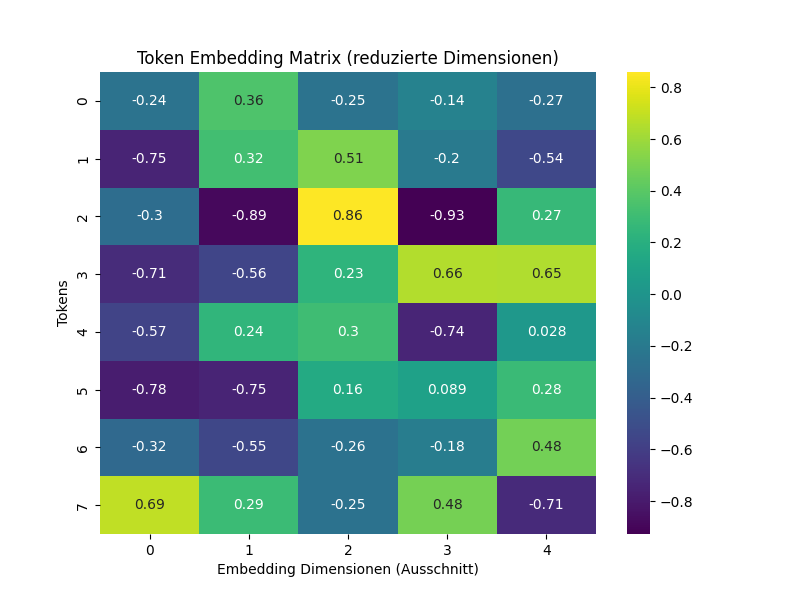
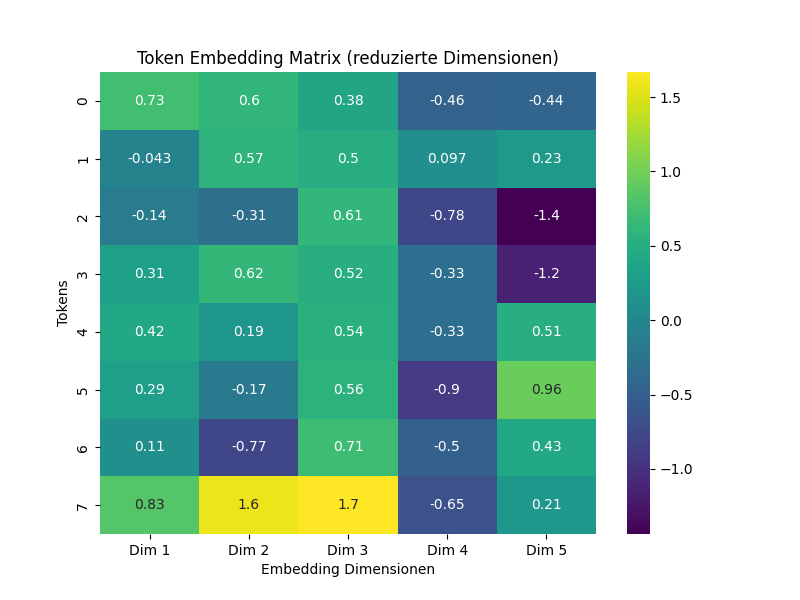
Verbesserungen demo

diff --git a/Demo/Demo transformer/demo.py b/Demo/Demo transformer/demo.py
@@ -7,8 +7,8 @@ import seaborn as sns
 import matplotlib.cm as cm
 
 # 1. Initialisierung von Tokenizer und Modell
-tokenizer = BertTokenizer.from_pretrained('bert-base-uncased')
-model = BertModel.from_pretrained('bert-base-uncased')
+tokenizer = BertTokenizer.from_pretrained('bert-base-german-cased')
+model = BertModel.from_pretrained('bert-base-german-cased')
 
 # 2. Eingabesatz
 sentence = "Ich sitze auf der Bank"
@@ -32,9 +32,9 @@ print(embedding_reduced)
 
 # Visualisierung der Embeddingmatrix
 plt.figure(figsize=(8, 6))
-sns.heatmap(embedding_reduced, annot=True, cmap='viridis')
+sns.heatmap(embedding_reduced, annot=True, cmap='viridis', xticklabels=[f'Dim {i+1}' for i in range(embedding_reduced.shape[1])])
 plt.title('Token Embedding Matrix (reduzierte Dimensionen)')
-plt.xlabel('Embedding Dimensionen (Ausschnitt)')
+plt.xlabel('Embedding Dimensionen')
 plt.ylabel('Tokens')
 plt.savefig('token_embedding_matrix_reduced.png')
 plt.close()
@@ -64,30 +64,60 @@ plt.savefig('attention_matrix_heatmap.png')
 plt.close()
 print("Attention-Heatmap gespeichert als 'attention_matrix_heatmap.png'")
 
-# 8. Token-Verbindungen visualisieren
+# 8. Token-Verbindungen visualisieren für jeden Token
+for i in range(len(tokens)):
+    fig, ax = plt.subplots(figsize=(12, 12))
+    y_positions = np.arange(len(tokens) - 1, -1, -1)
+
+    # Zeichnen der Punkte und Verbindungen für den aktuellen Token
+    ax.scatter(np.zeros(len(tokens)), y_positions, c='black', s=100)
+    ax.scatter(np.ones(len(tokens)), y_positions, c='black', s=100)
+
+    cmap = cm.viridis
+    norm = plt.Normalize(vmin=np.min(attention_matrix), vmax=np.max(attention_matrix))
+
+    # Zeichnen der Verbindungen für den aktuellen Token
+    for j in range(len(tokens)):
+        weight = attention_matrix[i, j]
+        if weight > 0.1:  # Threshold für darzustellende Verbindungen
+            color = cmap(norm(weight))
+            ax.plot([0, 1], [y_positions[i], y_positions[j]], color=color, lw=2)
+            ax.text(0.5, (y_positions[i] + y_positions[j]) / 2, f'{weight:.2f}', ha='center', va='center', fontsize=10)
+
+    ax.set_yticks(y_positions)
+    ax.set_yticklabels(tokens)
+    ax.set_xticks([0, 1])
+    ax.set_xticklabels(['Links', 'Rechts'])
+    plt.title(f'Token-Verbindungen mit Attention Scores für Token {tokens[i]}')
+    plt.savefig(f'token_{tokens[i]}_connections_with_attention_scores.png')
+    plt.close()
+    print(f"Token-Verbindungen für {tokens[i]} gespeichert als 'token_{tokens[i]}_connections_with_attention_scores.png'")
+
+# 9. Alle Token-Verbindungen auf einmal visualisieren
 fig, ax = plt.subplots(figsize=(12, 12))
 y_positions = np.arange(len(tokens) - 1, -1, -1)
+
+# Zeichnen der Punkte für die Tokens
 ax.scatter(np.zeros(len(tokens)), y_positions, c='black', s=100)
 ax.scatter(np.ones(len(tokens)), y_positions, c='black', s=100)
 
 cmap = cm.viridis
 norm = plt.Normalize(vmin=np.min(attention_matrix), vmax=np.max(attention_matrix))
 
+# Zeichnen der Verbindungen zwischen allen Token-Paaren
 for i in range(len(tokens)):
     for j in range(len(tokens)):
         weight = attention_matrix[i, j]
-        if weight > 0.05:
+        if weight > 0.1:  # Threshold für darzustellende Verbindungen
             color = cmap(norm(weight))
             ax.plot([0, 1], [y_positions[i], y_positions[j]], color=color, lw=2)
-            ax.text(0.5, (y_positions[i] + y_positions[j]) / 2, f'{weight:.2f}', ha='center', va='center', fontsize=10)
 
+# Achsenticks und -labels
 ax.set_yticks(y_positions)
 ax.set_yticklabels(tokens)
 ax.set_xticks([0, 1])
 ax.set_xticklabels(['Links', 'Rechts'])
-plt.title('Token-Verbindungen mit Attention Scores')
-plt.savefig('token_connections_with_attention_scores.png')
+plt.title('Alle Token-Verbindungen')
+plt.savefig('all_token_connections.png')
 plt.close()
-print("Token-Verbindungen gespeichert als 'token_connections_with_attention_scores.png'")
-
-print("Alle Visualisierungen wurden erfolgreich gespeichert.")
+print("Alle Token-Verbindungen mit Attention Scores gespeichert als 'all_token_connections_with_attention_scores.png'")

diff --git a/Inhalt/04_Inhalt/attention.tex b/Inhalt/04_Inhalt/attention.tex
@@ -31,7 +31,7 @@ Wenn sich Tokens im Vektorraum nahe liegen, haben sie eher Gemeinsamkeiten im Ve
 Angenommen, es gäbe nur ein \( d_{\text{model}} = 2 \) für jeden Token, könnten diese zwei Dimensionen als Koordinaten genutzt werden, um Zusammenhänge visuell als Cluster in einem Koordinatensystem darzustellen.  
 Hier wären beispielsweise die Tokens \enquote{Hund} und \enquote{Katze} nah beieinander.
 
-Für das oben genannte Beispiel nehmen wir der Übersichtlichkeit halber ein \( d_{\text{model}} = 4 \).  
+Für das oben genannte Beispiel nehmen verwendet das BERT-Model ein \( d_{\text{model}} = 768 \).  
 So ergibt sich eine Embedding-Matrix $\mathbf{X}$ mit 8 Zeilen für 8 Tokens und 768 Spalten für jeweils 768 Dimensionen, die hier der Übersicht halber gekürzt wurden:
 
 \[
